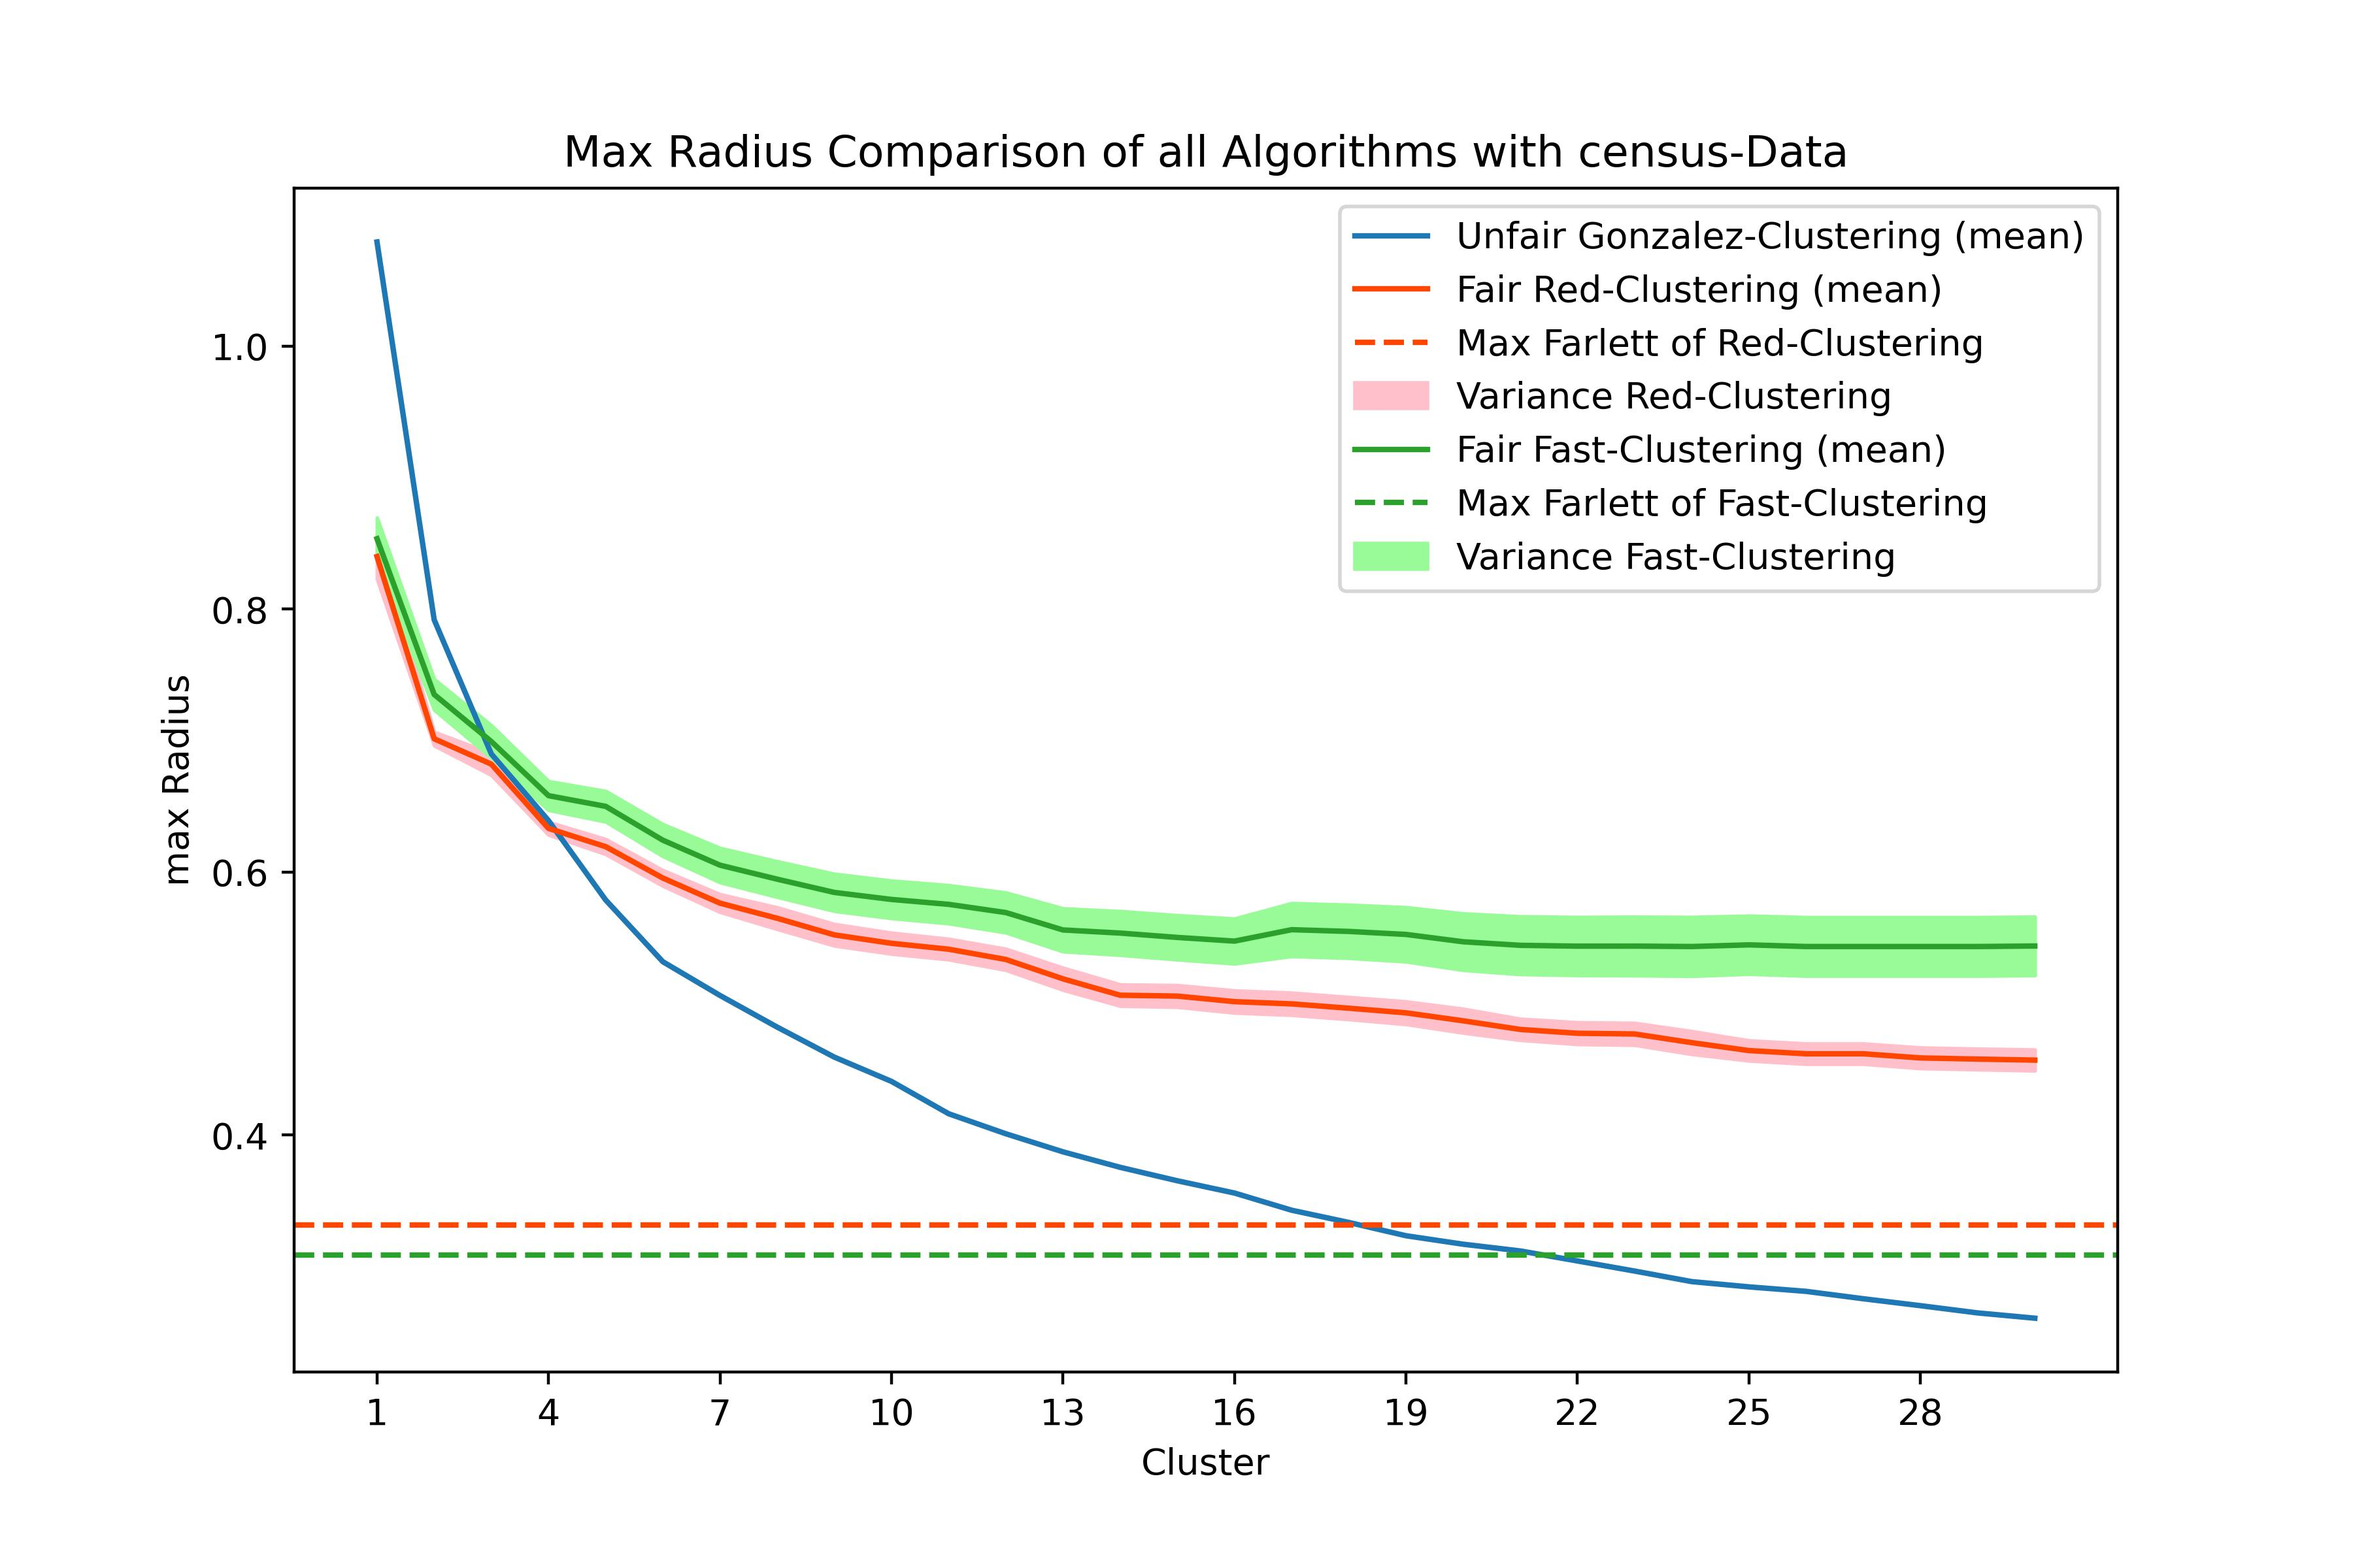
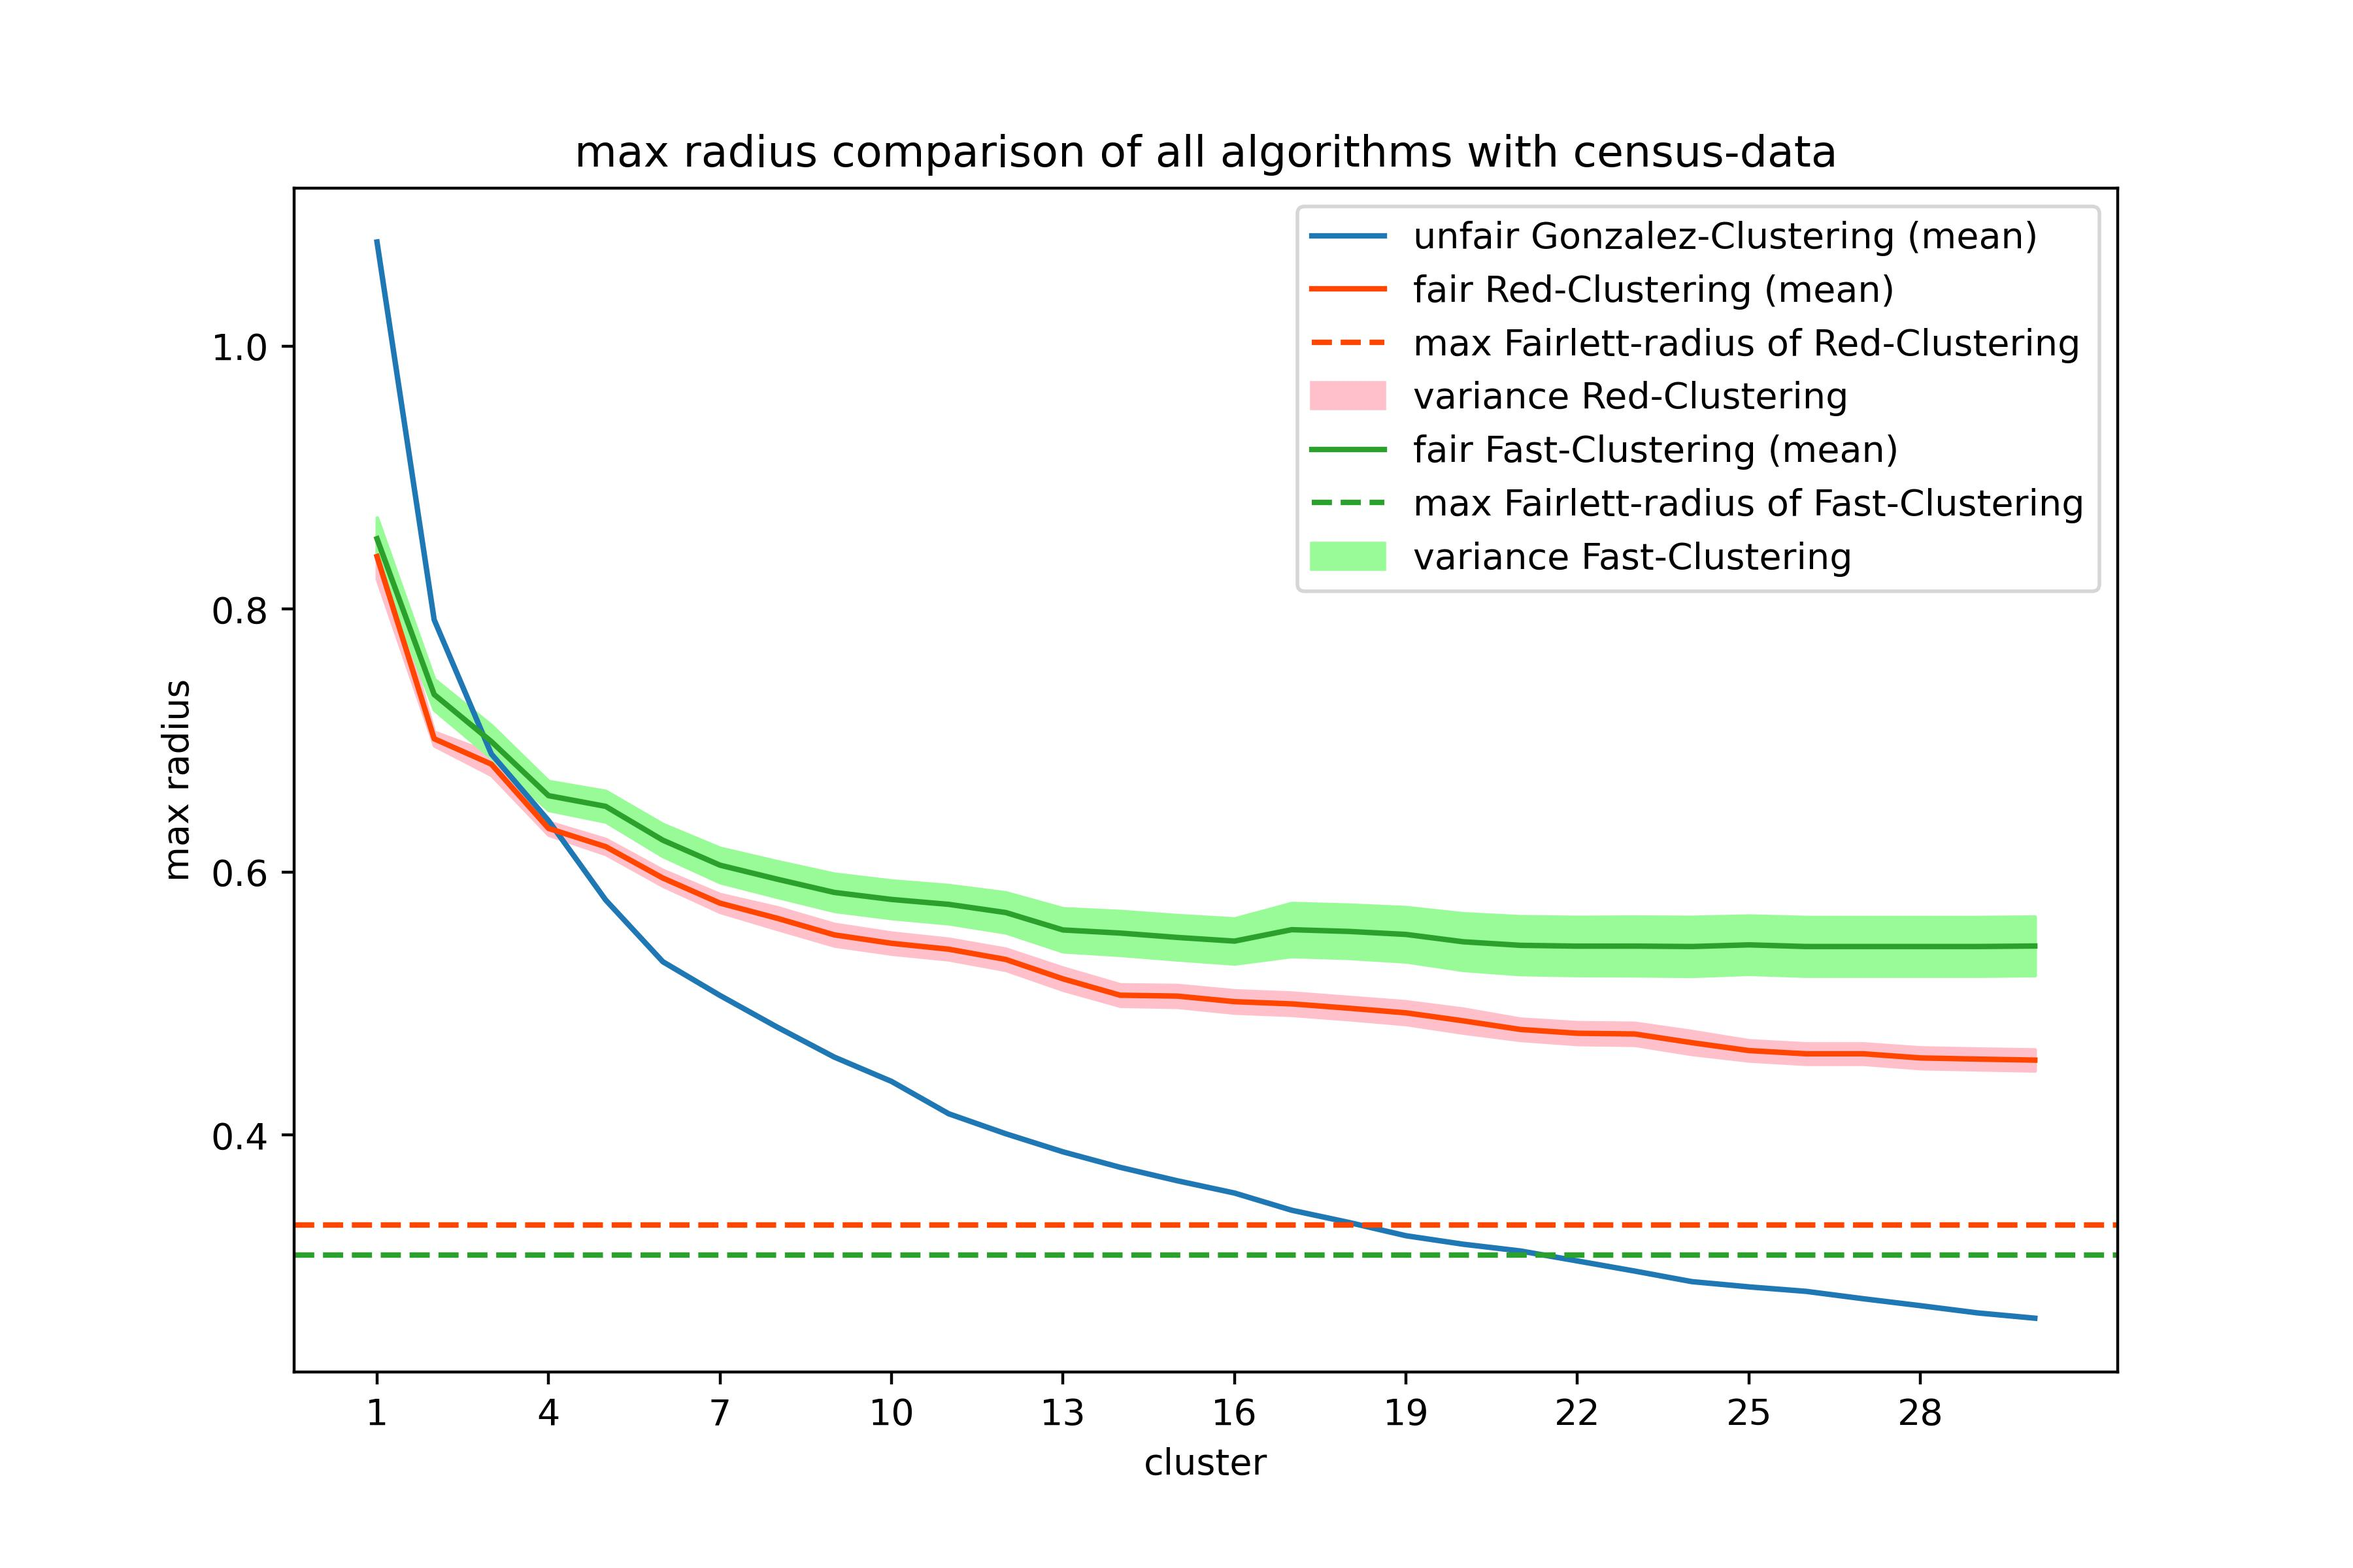
Fixed Typos in Diagrams
In einigen Graphen waren Rechtschreibfehler drin

Im Letzten Bild wurde nicht der mean gebildet. Wird jetzt über np.mean gemacht

Changed region(s): [[0.2489, 0.0625, 0.8711, 0.375], [0.0622, 0.4375, 0.0933, 0.5625], [0.4978, 0.9062, 0.5289, 0.9375]]

diff --git a/Multicolor-Fair-Clusterin/Pythonskripte/DataAnalyzer.py b/Multicolor-Fair-Clusterin/Pythonskripte/DataAnalyzer.py
@@ -34,9 +34,9 @@ def analyzeDatasetzs(pictureFolder = "../Data/OutputData/Final/Pictures/",
                                      numOfSamples=numOfSamples, maxCluster=maxCluster, algorithm=algs[i])
         
         # Rest vom Graph zusammensetzen
-        ax.set_title(f"Max Radius Comparison of all Algorithms with {dataSet}-Data")
-        ax.set_xlabel("Cluster")
-        ax.set_ylabel("max Radius")
+        ax.set_title(f"max radius comparison of all algorithms with {dataSet}-data")
+        ax.set_xlabel("cluster")
+        ax.set_ylabel("max radius")
         ax.legend()
         plt.savefig(f"{pictureFolder}/Collective Analysis {dataSet}(Cluster-{maxCluster}).jpg", dpi=400)
         plt.show()
@@ -55,7 +55,7 @@ def analyzeDatasetzs(pictureFolder = "../Data/OutputData/Final/Pictures/",
     
     
     # Analyse für das Center-Aware Problem von Fast-Anchor
-    fast_anchor_maxline_analysis("census", pictureFolder, dataFolder, numOfSamples=numOfSamples, maxCluster=maxCluster)
+    fast_anchor_maxline_analysis("census", pictureFolder, dataFolder, numOfSamples=6, maxCluster=maxCluster)
     
     return
 
@@ -141,20 +141,20 @@ def plot_single_dataset(dfRadius, picturePath, title, algorithm="g"):
     if(algorithm == "g"):
         # Unfaire Beschriftung
         ax.plot(dfRadius["clustersize"], dfRadius["mean"],
-                color = "brown", label = "Unfair (mean)")
+                color = "brown", label = "unfair (mean)")
         ax.plot(dfRadius["clustersize"], dfRadius[["maxValue", "minValue"]],
-                color = "orange", linestyle = "dashed", alpha = 0.5, label = "Unfair (max/min)")
+                color = "orange", linestyle = "dashed", alpha = 0.5, label = "unfair (max/min)")
     else:
         # Faire Beschriftung
         ax.plot(dfRadius["clustersize"], dfRadius["mean"],
-                color = "brown", label = "Fair (mean)")
+                color = "brown", label = "fair (mean)")
         ax.plot(dfRadius["clustersize"], dfRadius[["maxValue", "minValue"]],
-                color = "orange", linestyle = "dashed", alpha = 0.5, label = "Fair (max/min)")
+                color = "orange", linestyle = "dashed", alpha = 0.5, label = "fair (max/min)")
     
     ax.set_xticks(list(range(1, len(dfRadius) + 1, intervalls)))
     ax.set_title(title)
-    ax.set_xlabel("Cluster")
-    ax.set_ylabel("max Radius")
+    ax.set_xlabel("cluster")
+    ax.set_ylabel("max radius")
     ax.legend()
     plt.savefig(picturePath, dpi=400)
     plt.show()
@@ -185,12 +185,12 @@ def build_plot_axis(axis, dfRadius, fairlettRadiusMean=0, algorithm="g"):
     if(algorithm == "g"):
         # Unfaire Beschriftung
         axis.plot(dfRadius["clustersize"], dfRadius["mean"],
-                color = algColor, label = f"Unfair {algName} (mean)")
+                color = algColor, label = f"unfair {algName} (mean)")
     else:
         # Faire Beschriftung
         axis.plot(dfRadius["clustersize"], dfRadius["mean"],
-                 color = algColor, label = f"Fair {algName} (mean)")
-        axis.axhline(y=fairlettRadiusMean, color = algColor, linestyle='--', label=f"Max Farlett of {algName}")
+                 color = algColor, label = f"fair {algName} (mean)")
+        axis.axhline(y=fairlettRadiusMean, color = algColor, linestyle='--', label=f"max Fairlett-radius of {algName}")
 
     
     axis.set_xticks(list(range(1, len(dfRadius) + 1, intervalls)))
@@ -216,7 +216,7 @@ def add_plot_variance(axis, dfRadius, algorithm):
         # Varianz in den Graphen einfügen
         axis.fill_between(dfRadius["clustersize"], 
                          dfRadius["mean"]-dfRadius["variance"]/2, dfRadius["mean"] + dfRadius["variance"]/2, 
-                         color = algColor, label = f"Variance {algName}")
+                         color = algColor, label = f"variance {algName}")
         
 
 
@@ -324,8 +324,8 @@ def analyze_times(timestamps, picturePath, labels, algorithm="g"):
     
 
     ax.set_xticks(list(range(0, len(timestamps[0]) + 1, intervalls)))
-    ax.set_title(f"CPU Times of {algorithmName} Excecution")
-    ax.set_xlabel("Sample")
+    ax.set_title(f"CPU times of {algorithmName} excecution")
+    ax.set_xlabel("cample")
     ax.set_ylabel("time in ms")
     ax.legend(loc='upper right')
     plt.savefig(picturePath + f"/Timinganalysis {algorithmName}.jpg", dpi=400)
@@ -407,6 +407,7 @@ def fast_anchor_maxline_analysis(samplename, pictureFolder, dataFolder, numOfSam
     
     # # # Einlesen der neuen Daten
     listOfRadiiLists = []
+    listOfFairlettsizes = []
     for i in range(0, numOfSamples): 
         # Pfade algorithmisch zusammensetzen
         outputfolder = f"{dataFolder}{algPathAdd}/{samplename}/Sample{i}"
@@ -415,6 +416,8 @@ def fast_anchor_maxline_analysis(samplename, pictureFolder, dataFolder, numOfSam
         radiiList, fairlettRadius = get_radii_of_subsample(outputfolder, outputfile, maxCluster, algorithm="f")
         # radienverlauf hinszufügen
         listOfRadiiLists.append(radiiList)
+        # fairlettRadius hinzufügen
+        listOfFairlettsizes.append(fairlettRadius)
         
     
     
@@ -436,7 +439,7 @@ def fast_anchor_maxline_analysis(samplename, pictureFolder, dataFolder, numOfSam
     os.makedirs(pictureFolder, exist_ok=True) 
     print_radii(dfImportantValues,  
                 f"{pictureFolder}/Fast-Anchor Edge-Case.jpg", 
-                f"Fast-Clustering census Edge-Case Example", algorithm="f", fairlettRadius=fairlettRadius)
+                "Fast-Clustering census Edge-Case Example", algorithm="f", fairlettRadius=np.mean(fairlettRadius))
 
     return
 
@@ -461,24 +464,24 @@ def print_radii(dfRadius, picturePath, title, algorithm="f", fairlettRadius=-1):
     if(algorithm == "g"):
         # Unfaire Beschriftung
         ax.plot(dfRadius["clustersize"], dfRadius["mean"],
-                color = "brown", label = "Unfair (mean)")
+                color = "brown", label = "unfair (mean)")
         ax.plot(dfRadius["clustersize"], dfRadius[["maxValue", "minValue"]],
-                color = "orange", linestyle = "dashed", alpha = 0.5, label = "Unfair (max/min)")
+                color = "orange", linestyle = "dashed", alpha = 0.5, label = "unfair (max/min)")
     else:
         # Faire Beschriftung
         ax.plot(dfRadius["clustersize"], dfRadius["mean"],
-                color = "brown", label = "max Radius (mean)")
+                color = "brown", label = "max radius (mean)")
         ax.plot(dfRadius["clustersize"], dfRadius["maxValue"],
-                color = "red", linestyle = "dashed", alpha = 0.5, label = "max Radius (max)")
+                color = "red", linestyle = "dashed", alpha = 0.5, label = "max radius (max)")
         ax.plot(dfRadius["clustersize"], dfRadius["minValue"],
-                color = "green", linestyle = "dashed", alpha = 0.5, label = "max Radius (min)")
+                color = "green", linestyle = "dashed", alpha = 0.5, label = "max radius (min)")
         if (fairlettRadius >= 0):
-            ax.axhline(y=fairlettRadius, linestyle='--', label="Mean Farlett Radus")
+            ax.axhline(y=fairlettRadius, linestyle='--', label="mean Fairlett-radus")
     
 
     ax.set_xticks(list(range(1, len(dfRadius) + 1, intervalls)))
     ax.set_title(title)
-    ax.set_xlabel("Cluster")
+    ax.set_xlabel("cluster")
     ax.set_ylabel("max Radius")
     ax.legend()
     plt.savefig(picturePath, dpi=400)
